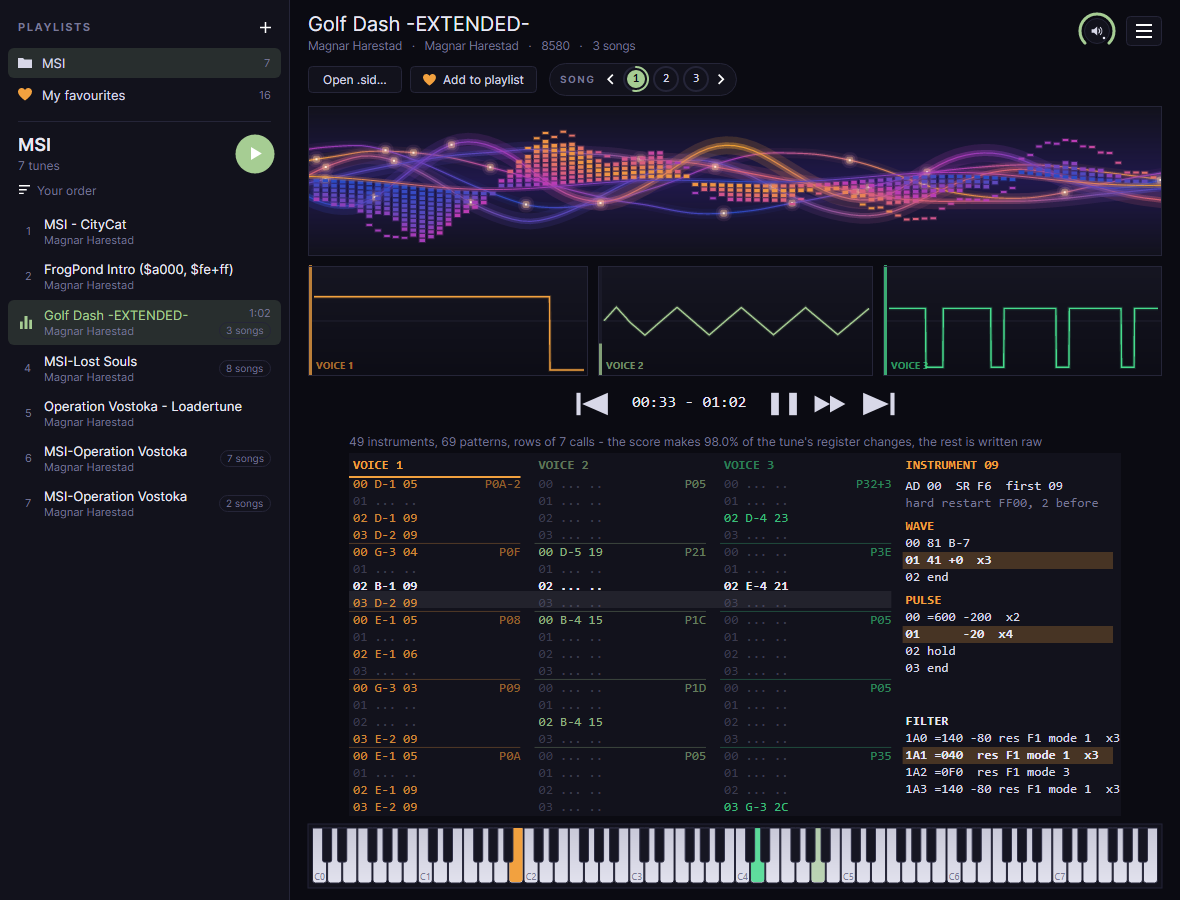
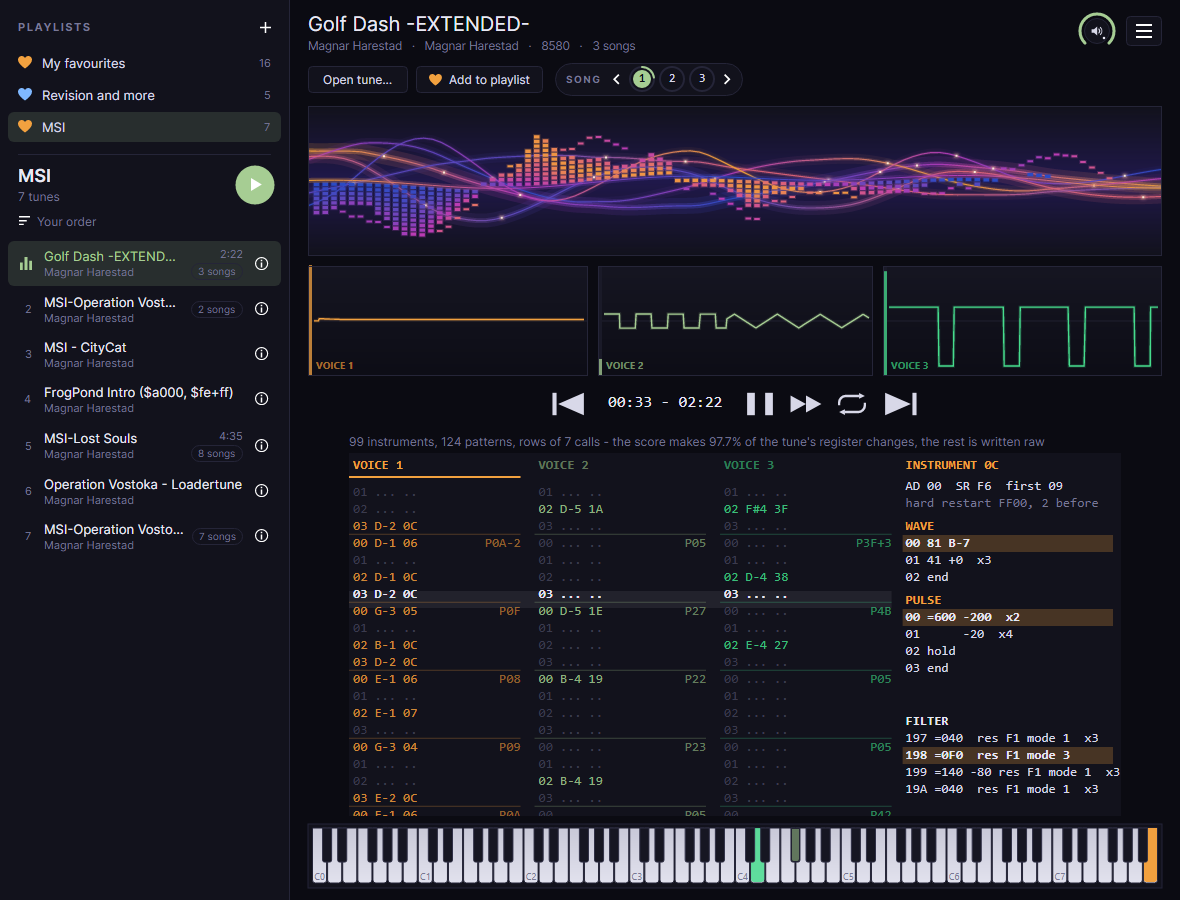
Website: new screenshots, and a module and a recording beside them

diff --git a/docs/index.html b/docs/index.html
@@ -34,8 +34,8 @@
   </section>
 
   <figure class="shot">
-    <img src="screenshots/player.png" width="1180" height="900" alt="MagPlaySID playing MSI-Lost Souls from a favourites playlist: the playlist down the left, the tune's eight songs beside Add to playlist with the third playing, the sound as a wireframe landscape to fly into, a scope per voice, the tune's rows with the selected voice's instrument beside them, and a piano along the bottom">
-    <figcaption>Your favourites as a playlist down the left; a tune's songs as buttons, a ring showing how far the one playing has got; the sound as a landscape to fly into - one of five meters - and a scope per voice; the tracker rows scrolling beside the instrument sounding and its wave, pulse and filter programs; and a piano lighting each voice's key.</figcaption>
+    <img src="screenshots/player.png?v=2" width="1180" height="900" alt="MagPlaySID playing MSI-Lost Souls from a favourites playlist: the playlist down the left with an info button on each tune, the tune's eight songs beside Add to playlist with the third playing, the sound as a wireframe landscape to fly into, a scope per voice, the tune's rows with the selected voice's instrument beside them, and a piano along the bottom">
+    <figcaption>Your favourites as a playlist down the left, an ⓘ on each tune to read about it; a tune's songs as buttons, a ring showing how far the one playing has got; the sound as a landscape to fly into - one of five meters - and a scope per voice; the tracker rows scrolling beside the instrument sounding and its wave, pulse and filter programs; and a piano lighting each voice's key.</figcaption>
   </figure>
 
   <h2 id="features">What it does</h2>
@@ -61,9 +61,20 @@
   </div>
 
   <figure class="shot">
-    <img src="screenshots/playlist.png" width="1180" height="900" alt="MagPlaySID playing Golf Dash Extended from a folder dropped on the window: the folder as a playlist above the favourites, its seven tunes listed with how many songs each has and the length of the tune played, a sort button above them, the neon meter's waves, and the tune's three songs beside Add to playlist">
-    <figcaption>A folder dropped on the window, as a playlist above your favourites: its tunes in order, played one after another; the one playing lit; a badge on each tune that has several songs, and the length of each once played; a button to sort them; a round button that plays the playlist from the top; and here the neon meter's waves.</figcaption>
+    <img src="screenshots/playlist.png?v=2" width="1180" height="900" alt="MagPlaySID playing Golf Dash Extended from a folder dropped on the window: the folder as a playlist below the favourites, its seven tunes listed with how many songs each has and the length of the tune played, a sort button above them, the neon meter's waves, and the tune's three songs beside Add to playlist">
+    <figcaption>A folder dropped on the window, as a playlist of its own: its tunes in order, played one after another; the one playing lit; a badge on each tune that has several songs, and the length of each once played; a button to sort them; a round button that plays the playlist from the top; and here the neon meter's waves.</figcaption>
   </figure>
+
+  <div class="shots">
+    <figure class="shot">
+      <img src="screenshots/module.png" width="1180" height="900" alt="MagPlaySID playing the Amiga module magnar - ignition: its patterns as ProTracker shows them, its sample names with the composer's greetings, a scope for each of its four channels, the stereo slider beside the volume, and the Last Ninja meter">
+      <figcaption>An Amiga module: its own patterns as ProTracker shows them, its sample names - here the composer's greetings - lit as they play, a scope per channel, the stereo slider beside the volume, and the Last Ninja meter.</figcaption>
+    </figure>
+    <figure class="shot">
+      <img src="screenshots/recording.png" width="1180" height="900" alt="MagPlaySID playing a FLAC recording: its notes heard as a piano roll rising to the line where they sound, the keys heard lit on the piano, a scope for each side, and the Dire Guys meter">
+      <figcaption>A recording: its notes heard, rising as a piano roll to the line where they sound, every key heard lit on the piano, a scope for each side, and the Dire Guys dancing on the beat.</figcaption>
+    </figure>
+  </div>
 
   <h2 id="start">Get started</h2>
   <ol class="steps">
